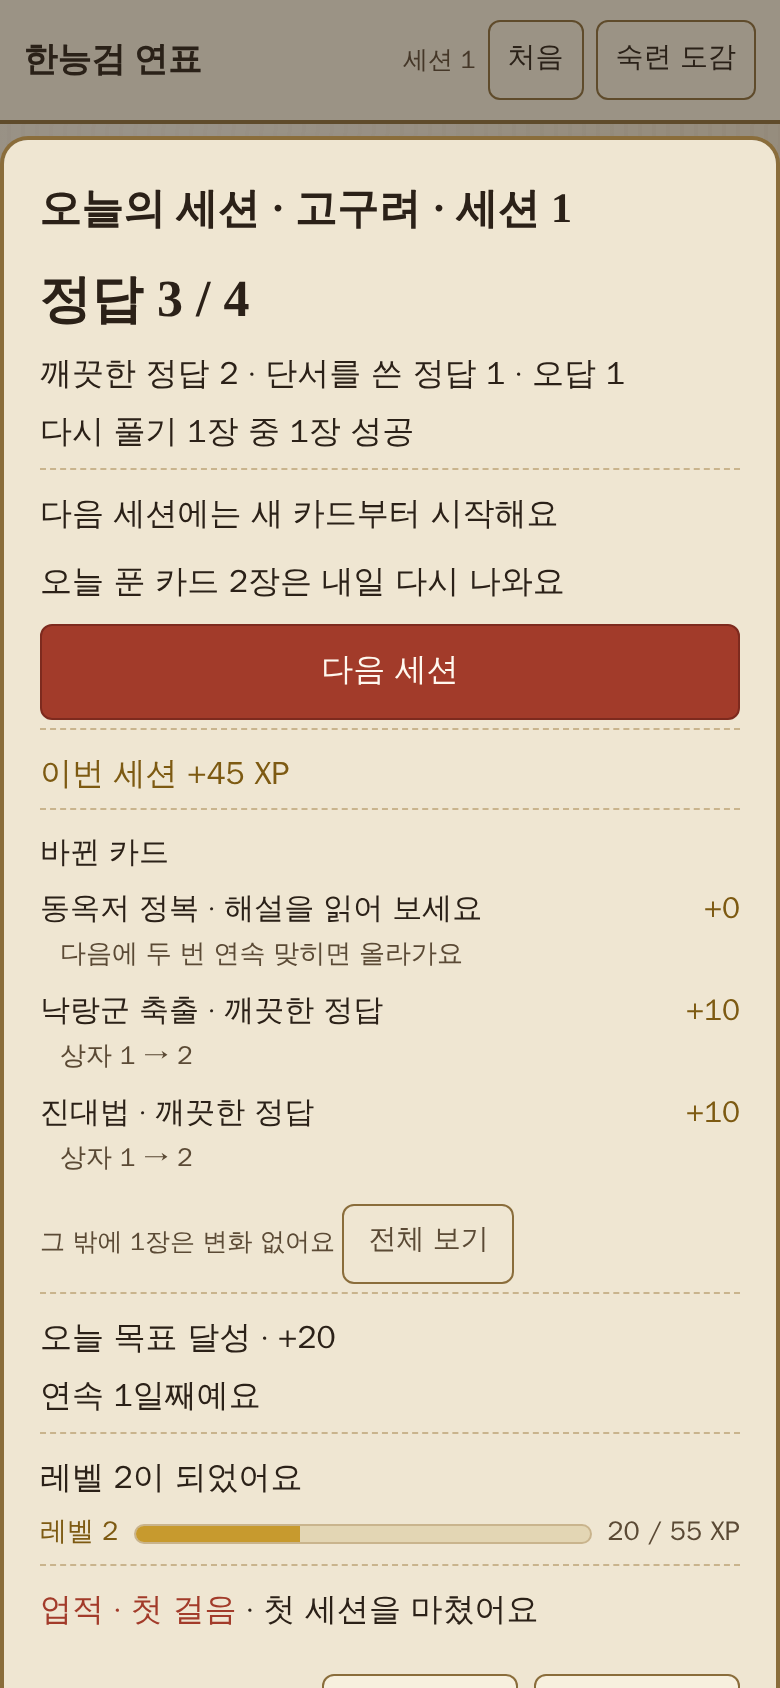
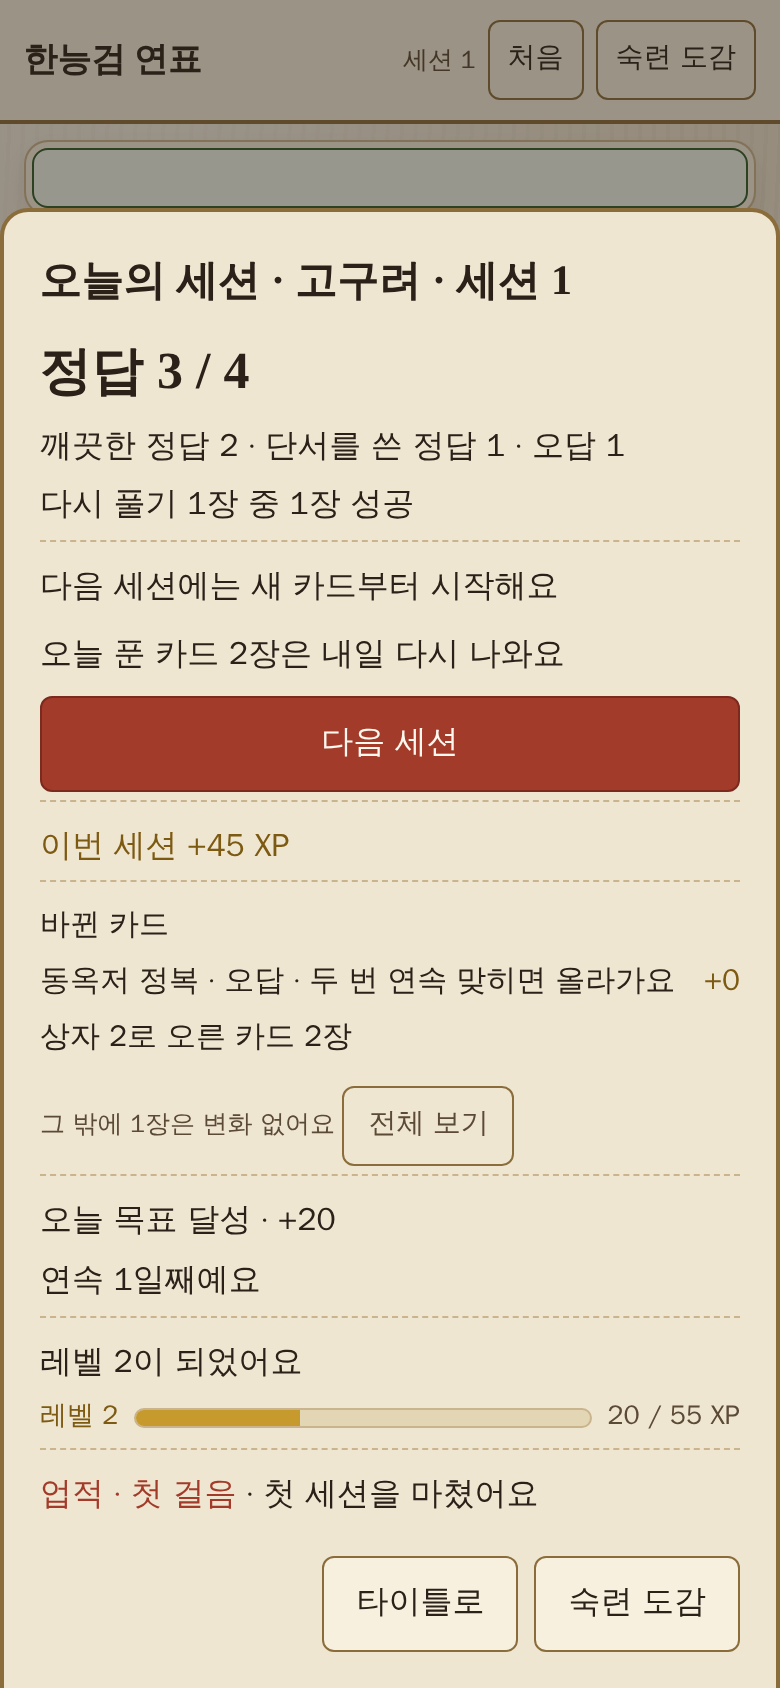
feat: compact changed-cards list, clue wording, keyboard and 4-nation checks (D111)
- D168: plain box 1->2 promotions collapse to one total line; one line per card
- D169: achievement text "힌트 없이" -> "단서 없이"
- e2e: keyboard-only title -> session -> result -> dogam; 4-nation vertical list
- D167: existing log fields confirmed sufficient for m2-plan 7b
- Result screenshots re-shot; a11y-m2.md updated

Task: D187 (D167-D169), M2-A F9

Claude-Session: https://claude.ai/code/session_01KFwKcXZaAYXL5Re7NZj86K

diff --git a/prototypes/m1-timeline/js/main.js b/prototypes/m1-timeline/js/main.js
@@ -493,23 +493,35 @@ function skipSession() {
 }
 
 const KIND_TEXT = { clean: '깨끗한 정답', relation: '단서를 보고 맞힘', direct: '직접 단서를 보고 맞힘', wrong: '해설을 읽어 보세요' };
-const GRADE_LINE = ['', '동 등급이 되었어요', '은 등급', '금 등급'];
+const GRADE_LINE = ['', '동 등급', '은 등급', '금 등급'];
 
 /**
  * 세션 결과(한 화면, rewards-spec §6·session-result.md D128): A 결과 요약 → B 다음 복습 + [다음 세션] → C 이번 세션 XP →
  * D 바뀐 카드만 → E 하루 목표·연속 → F 레벨 → G 업적. 사건이 없는 블록은 빠진다. 블록은 data-stage.
  */
+/** 보너스 없는 상자 승급(1 → 2)만 있는 줄: D 블록에서 합계 한 줄로 묶는다(D168). */
+function plainUp(l) {
+  const from = l.boxFrom ?? 1;
+  return l.changed && l.kind !== 'wrong' && l.boxTo !== null && l.boxTo > from && !l.boxUp && !l.released && !l.grades.length && !l.newProbation;
+}
+
+/** 카드 한 장 = 한 줄(D168): "진대법 · 동 등급 · +35". 바뀐 것이 없으면 인출 방식을 적는다. */
 function settleLine(l, hintState) {
   const c = app.cardsById.get(l.id);
-  const subs = [];
   const from = l.boxFrom ?? 1;
-  if (l.boxTo !== null && l.boxTo !== from) subs.push(el('span', { class: 'settle-sub' }, `상자 ${from} → ${l.boxTo}${l.boxUp ? ` · +${l.boxXp}` : ''}`));
-  if (l.released) subs.push(el('span', { class: 'settle-sub settle-grade' }, `지난번 틀린 카드를 이겨 냈어요 · +${l.releaseXp}`));
-  for (const gr of l.grades) subs.push(el('span', { class: 'settle-sub settle-grade' }, `${GRADE_LINE[gr]} · +${R.xp.grade_up[gr]}`));
-  if (l.newProbation) subs.push(el('span', { class: 'settle-hint' }, '다음에 두 번 연속 맞히면 올라가요'));
-  if ((l.kind === 'relation' || l.kind === 'direct') && !hintState.shown) { hintState.shown = true; subs.push(el('span', { class: 'settle-hint', id: 'settle-clue-hint' }, `깨끗하게 맞히면 +${R.xp.clean}`)); }
-  return el('li', { class: 'settle', dataset: { id: l.id, kind: l.kind, xp: String(l.total), changed: l.changed ? '1' : '0' } },
-    el('span', { class: 'settle-main' }, `${c?.title ?? l.id} · ${KIND_TEXT[l.kind]}`), l.capped ? el('span') : el('b', { class: 'settle-xp' }, `+${l.xp}`), ...subs);
+  const parts = [c?.title ?? l.id];
+  const ev = [];
+  if (l.kind === 'wrong') ev.push('오답');
+  for (const gr of l.grades) ev.push(GRADE_LINE[gr]);
+  if (l.released) ev.push('지난번 틀린 카드를 이겨 냈어요');
+  if (l.boxTo !== null && l.boxTo !== from && !l.grades.length) ev.push(`상자 ${from} → ${l.boxTo}`);
+  if (l.newProbation) ev.push('두 번 연속 맞히면 올라가요');
+  parts.push(...(ev.length ? ev : [KIND_TEXT[l.kind]]));
+  const showXp = !(l.capped && !l.total);
+  const sub = (l.kind === 'relation' || l.kind === 'direct') && !hintState.shown
+    ? (hintState.shown = true, el('span', { class: 'settle-hint', id: 'settle-clue-hint' }, `깨끗하게 맞히면 +${R.xp.clean}`)) : null;
+  return el('li', { class: `settle${l.grades.length || l.released ? ' settle-grade' : ''}`, dataset: { id: l.id, kind: l.kind, xp: String(l.total), changed: l.changed ? '1' : '0' } },
+    el('span', { class: 'settle-main' }, parts.join(' · ')), showXp ? el('b', { class: 'settle-xp' }, `+${l.total}`) : el('span'), sub);
 }
 
 function rewardBlocks() {
@@ -526,14 +538,18 @@ function rewardBlocks() {
         g.capped ? el('small', { class: 'settle-hint', id: 'summary-cap' }, ` · 그날 ${R.xp_cards_per_day}장을 넘긴 카드부터는 경험치가 없어요`) : null)));
   // D 바뀐 카드만
   const hint = { shown: false };
-  const changed = g.lines.filter((l) => l.changed);
+  const ups = g.lines.filter(plainUp);
+  const changed = g.lines.filter((l) => l.changed && !plainUp(l));
   const same = g.lines.filter((l) => !l.changed);
+  const upTo = new Set(ups.map((l) => l.boxTo));
+  const upLine = ups.length ? el('p', { class: 'settle-up', id: 'settle-up' }, upTo.size === 1 ? `상자 ${ups[0].boxTo}로 오른 카드 ${ups.length}장` : `상자가 오른 카드 ${ups.length}장`) : null;
   const list = el('ul', { class: 'settle-list', id: 'settle-list' }, changed.slice(0, changed.length > 6 ? 5 : 6).map((l) => settleLine(l, hint)));
   const moreChanged = changed.length > 6 ? changed.slice(5) : [];
   const full = el('ul', { class: 'settle-list', id: 'settle-full', hidden: true }, g.lines.map((l) => settleLine(l, { shown: true })));
   blocks.push(el('section', { class: 'stage', dataset: { stage: 'cards' }, id: 'stage-cards', 'aria-label': '바뀐 카드' },
-    el('h3', {}, changed.length ? '바뀐 카드' : '이번 세션의 카드'),
+    el('h3', {}, changed.length || ups.length ? '바뀐 카드' : '이번 세션의 카드'),
     changed.length ? list : null,
+    upLine,
     moreChanged.length ? el('button', { type: 'button', class: 'btn btn-small btn-quiet', id: 'settle-more', onclick: (e) => { list.append(...moreChanged.map((l) => settleLine(l, hint))); e.target.remove(); } }, `더 보기 (${moreChanged.length}장)`) : null,
     same.length ? el('p', { class: 'source-note', id: 'settle-same' }, `그 밖에 ${same.length}장은 변화 없어요 `,
       el('button', { type: 'button', class: 'btn btn-small btn-quiet', id: 'settle-all', 'aria-expanded': 'false', onclick: (e) => { full.hidden = !full.hidden; e.target.setAttribute('aria-expanded', full.hidden ? 'false' : 'true'); e.target.textContent = full.hidden ? '전체 보기' : '접기'; } }, '전체 보기')) : null,

diff --git a/prototypes/m1-timeline/js/rewards.js b/prototypes/m1-timeline/js/rewards.js
@@ -140,7 +140,7 @@ export function achievementDefs(nation = null, nationLabel = '') {
     { id: 'first-bronze', name: '첫 동', desc: '카드 하나가 동 등급이 되었어요', test: (s) => s.bronzePlus >= 1, progress: null },
     { id: 'first-silver', name: '첫 은', desc: '카드 하나가 은 등급이 되었어요', test: (s) => s.silverPlus >= 1, progress: null },
     { id: 'first-gold', name: '첫 금', desc: '카드 하나를 금 등급까지 올렸어요', test: (s) => s.gold >= 1, progress: null },
-    { id: 'clean-session', name: '깨끗한 한 판', desc: '한 세션에서 5장을 모두 힌트 없이 맞혔어요', test: (s) => s.sessionCards >= 5 && s.sessionClean === s.sessionCards, progress: null },
+    { id: 'clean-session', name: '깨끗한 한 판', desc: '한 세션에서 5장을 모두 단서 없이 맞혔어요', test: (s) => s.sessionCards >= 5 && s.sessionClean === s.sessionCards, progress: null },
     { id: 'wrong-note-clear', name: '오답 노트 비우기', desc: '틀렸던 카드를 모두 다시 익혔어요', test: (s) => s.lapsed >= 3 && s.lapsedRecovered === s.lapsed, progress: (s) => (s.lapsed >= 3 ? [s.lapsedRecovered, s.lapsed] : null) },
     { id: 'streak-3', name: '사흘 연속', desc: '3일 이어서 공부했어요', test: (s) => s.bestStreak >= 3, progress: (s) => [Math.min(3, s.streak), 3] },
     { id: 'streak-7', name: '일주일 연속', desc: '7일 이어서 공부했어요', test: (s) => s.bestStreak >= 7, progress: (s) => [Math.min(7, s.streak), 7] },

diff --git a/prototypes/m1-timeline/tests/rewards.test.js b/prototypes/m1-timeline/tests/rewards.test.js
@@ -106,7 +106,7 @@ describe('§11 수용 기준', () => {
     assert.deepEqual([rw.streak, rw.rest_passes], [7, 1]);
     rw = goalRun(rw, days(14, '2026-11-08'));
     assert.deepEqual([rw.streak, rw.rest_passes], [21, 2], '최대 2장');
-    // 하루 쉬고(11-22) 11-23에 학습: 보호권 1장 사용, 연속 이어짐
+    // 하루 쉬고(11-22) 11-23에 학습: 휴식권 1장 사용, 연속 이어짐
     const r = settle(rw, [rec(), rec(), rec()], at('2026-11-23'));
     assert.equal(r.report.goal.usedPasses, 1);
     assert.deepEqual([r.rewards.streak, r.rewards.rest_passes], [22, 1]);

diff --git a/prototypes/m1-timeline/style.css b/prototypes/m1-timeline/style.css
@@ -342,3 +342,4 @@ body { min-height: 100vh; background-attachment: fixed; }
 .seal { display: inline-grid; place-items: center; width: 28px; height: 28px; border-radius: 50%; font-family: var(--serif); font-weight: 700; font-size: 15px; line-height: 1; vertical-align: middle; flex: 0 0 auto; }
 .chip .seal { width: 22px; height: 22px; font-size: 12px; }
 .nation-name { display: inline-flex; align-items: center; gap: 6px; }
+.settle-up { margin: 6px 0 0; font-size: 15px; }

diff --git a/docs/decision-log.md b/docs/decision-log.md
@@ -1093,6 +1093,13 @@
 - 남은 미확인: 982 시무 28조 연도, 과전법 공포 월.
 - D189(디렉터): 구조형 비중은 전체 주제 기준 약 20%로 보고 고려도 새 카드 유형 없음.
 
+## 2026-11-05 D111. D168 바뀐 카드 축소, D169 용어, 키보드만 흐름·나라 4개 확인, D167 로그 확인 (웹 빌드 세션, D187 시행)
+- **D168**: 결과 D 블록에서 보너스 없는 상자 승급(1 → 2)만 있는 카드는 합계 한 줄 "상자 2로 오른 카드 n장"(`#settle-up`). 등급·만회·오답·재학습 표시가 있는 카드만 카드별로, 한 장 = 한 줄("동옥저 정복 · 오답 · 두 번 연속 맞히면 올라가요 +0", "진대법 · 동 등급 +35"). [전체 보기]도 한 줄 형식.
+- **D169**: 업적 "깨끗한 한 판" 설명 "힌트 없이" → "단서 없이". 화면의 "보호권"은 D110에서 이미 "휴식권"(남은 것은 테스트 주석 1곳, 고침).
+- **F9 보강**: e2e "키보드만"(타이틀 → 세션 → 결과 → 도감, Tab·Enter·방향키만)과 "나라 4개"(실제 3나라 + 통일신라 staging, 390px 세로 4행·인장·56px). 점검표 `production/qa/a11y-m2.md`에 두 줄 추가.
+- **D167**: 새 필드 불필요 확인. 일반 모드 인출 줄에 `card_id`·`correct`·`clue_used`·`box_before`·`ts_ms`·`practice`·`relearn`(같은 세션 다시 풀기 표시)·`day_index`·`clue_open_ms`가 있어 m2-plan 7b의 첫 만남 결과별 다음 정답률과 단서 연 시점 분포를 계산할 수 있다. 7b의 "같은 세션 두 번째 줄 제외"는 `relearn: true`로 바로 거를 수 있다.
+- 단위 90, e2e 63 통과. 결과 화면 스크린샷(`*-05-summary`, `*-05b-summary-bottom`) 재촬영.
+
 ## 남은 문제
 - 카드 44장 전부 `verified: false`. 사람의 사실 확인 전에는 출시 빌드에 넣을 카드가 없다(`validate_cards.py --release` 실패가 정상).
 - 같은 사료(삼국사기 전승)에 기댄 건국기 카드가 많다. 플레이에서 건국기 칸이 단서 3단계 의존으로 쏠리는지 볼 것.

diff --git a/production/qa/a11y-m2.md b/production/qa/a11y-m2.md
@@ -12,6 +12,8 @@
 | 터치 목표 | 연표 "+", 결과 [다음 세션], 나라 목록 행 | 44px 이상(행 56px 이상) | 통과 | 크기 측정(D102·D104·D107 e2e) |
 | 키보드: 타이틀 | 나라 목록 | `radiogroup`, 선택된 행만 Tab 순서(`tabindex` 0), 방향키로 행 이동, Enter로 고름 | 통과 | 포커스 이동 확인 |
 | 키보드: 시작 | [시작하기] | Enter로 학습 시작 | 통과 | |
+| 키보드만 전체 흐름 | 타이틀 → 세션 → 결과 → 도감 | 마우스 없이 Tab으로 [시작]·칸 "+"·[다음]·[도감]·도감 탭에 닿고 Enter·방향키로 진행(1280) | 통과(D111) | e2e "키보드만" |
+| 나라 4개 | 타이틀 나라 목록 | 390px에서 4행 세로, 행 56px 이상, 인장 고·백·신·통, 가로 스크롤 없음 | 통과(D111) | e2e "나라 4개" |
 | 키보드: 연표 | 칸 "+" | Tab + Enter로 꽂기(데스크톱은 바로, 터치는 확정 막대) | 통과(M1 e2e 유지) | |
 | 결과 화면 | 열릴 때 | `role="dialog"`, 포커스는 [다음 세션], 레벨 막대 `progressbar`(`aria-valuenow/min/max`), 낭독 영역(`aria-live`)에 "정답 n / N. 다음 …" | 통과 | |
 | 결과 화면 | 동작 | 탭 0번으로 모두 보임, 아무 곳이나 탭·키로 애니메이션 끝, `prefers-reduced-motion`이면 정적, Esc로 닫히지 않음 | 통과 | |
